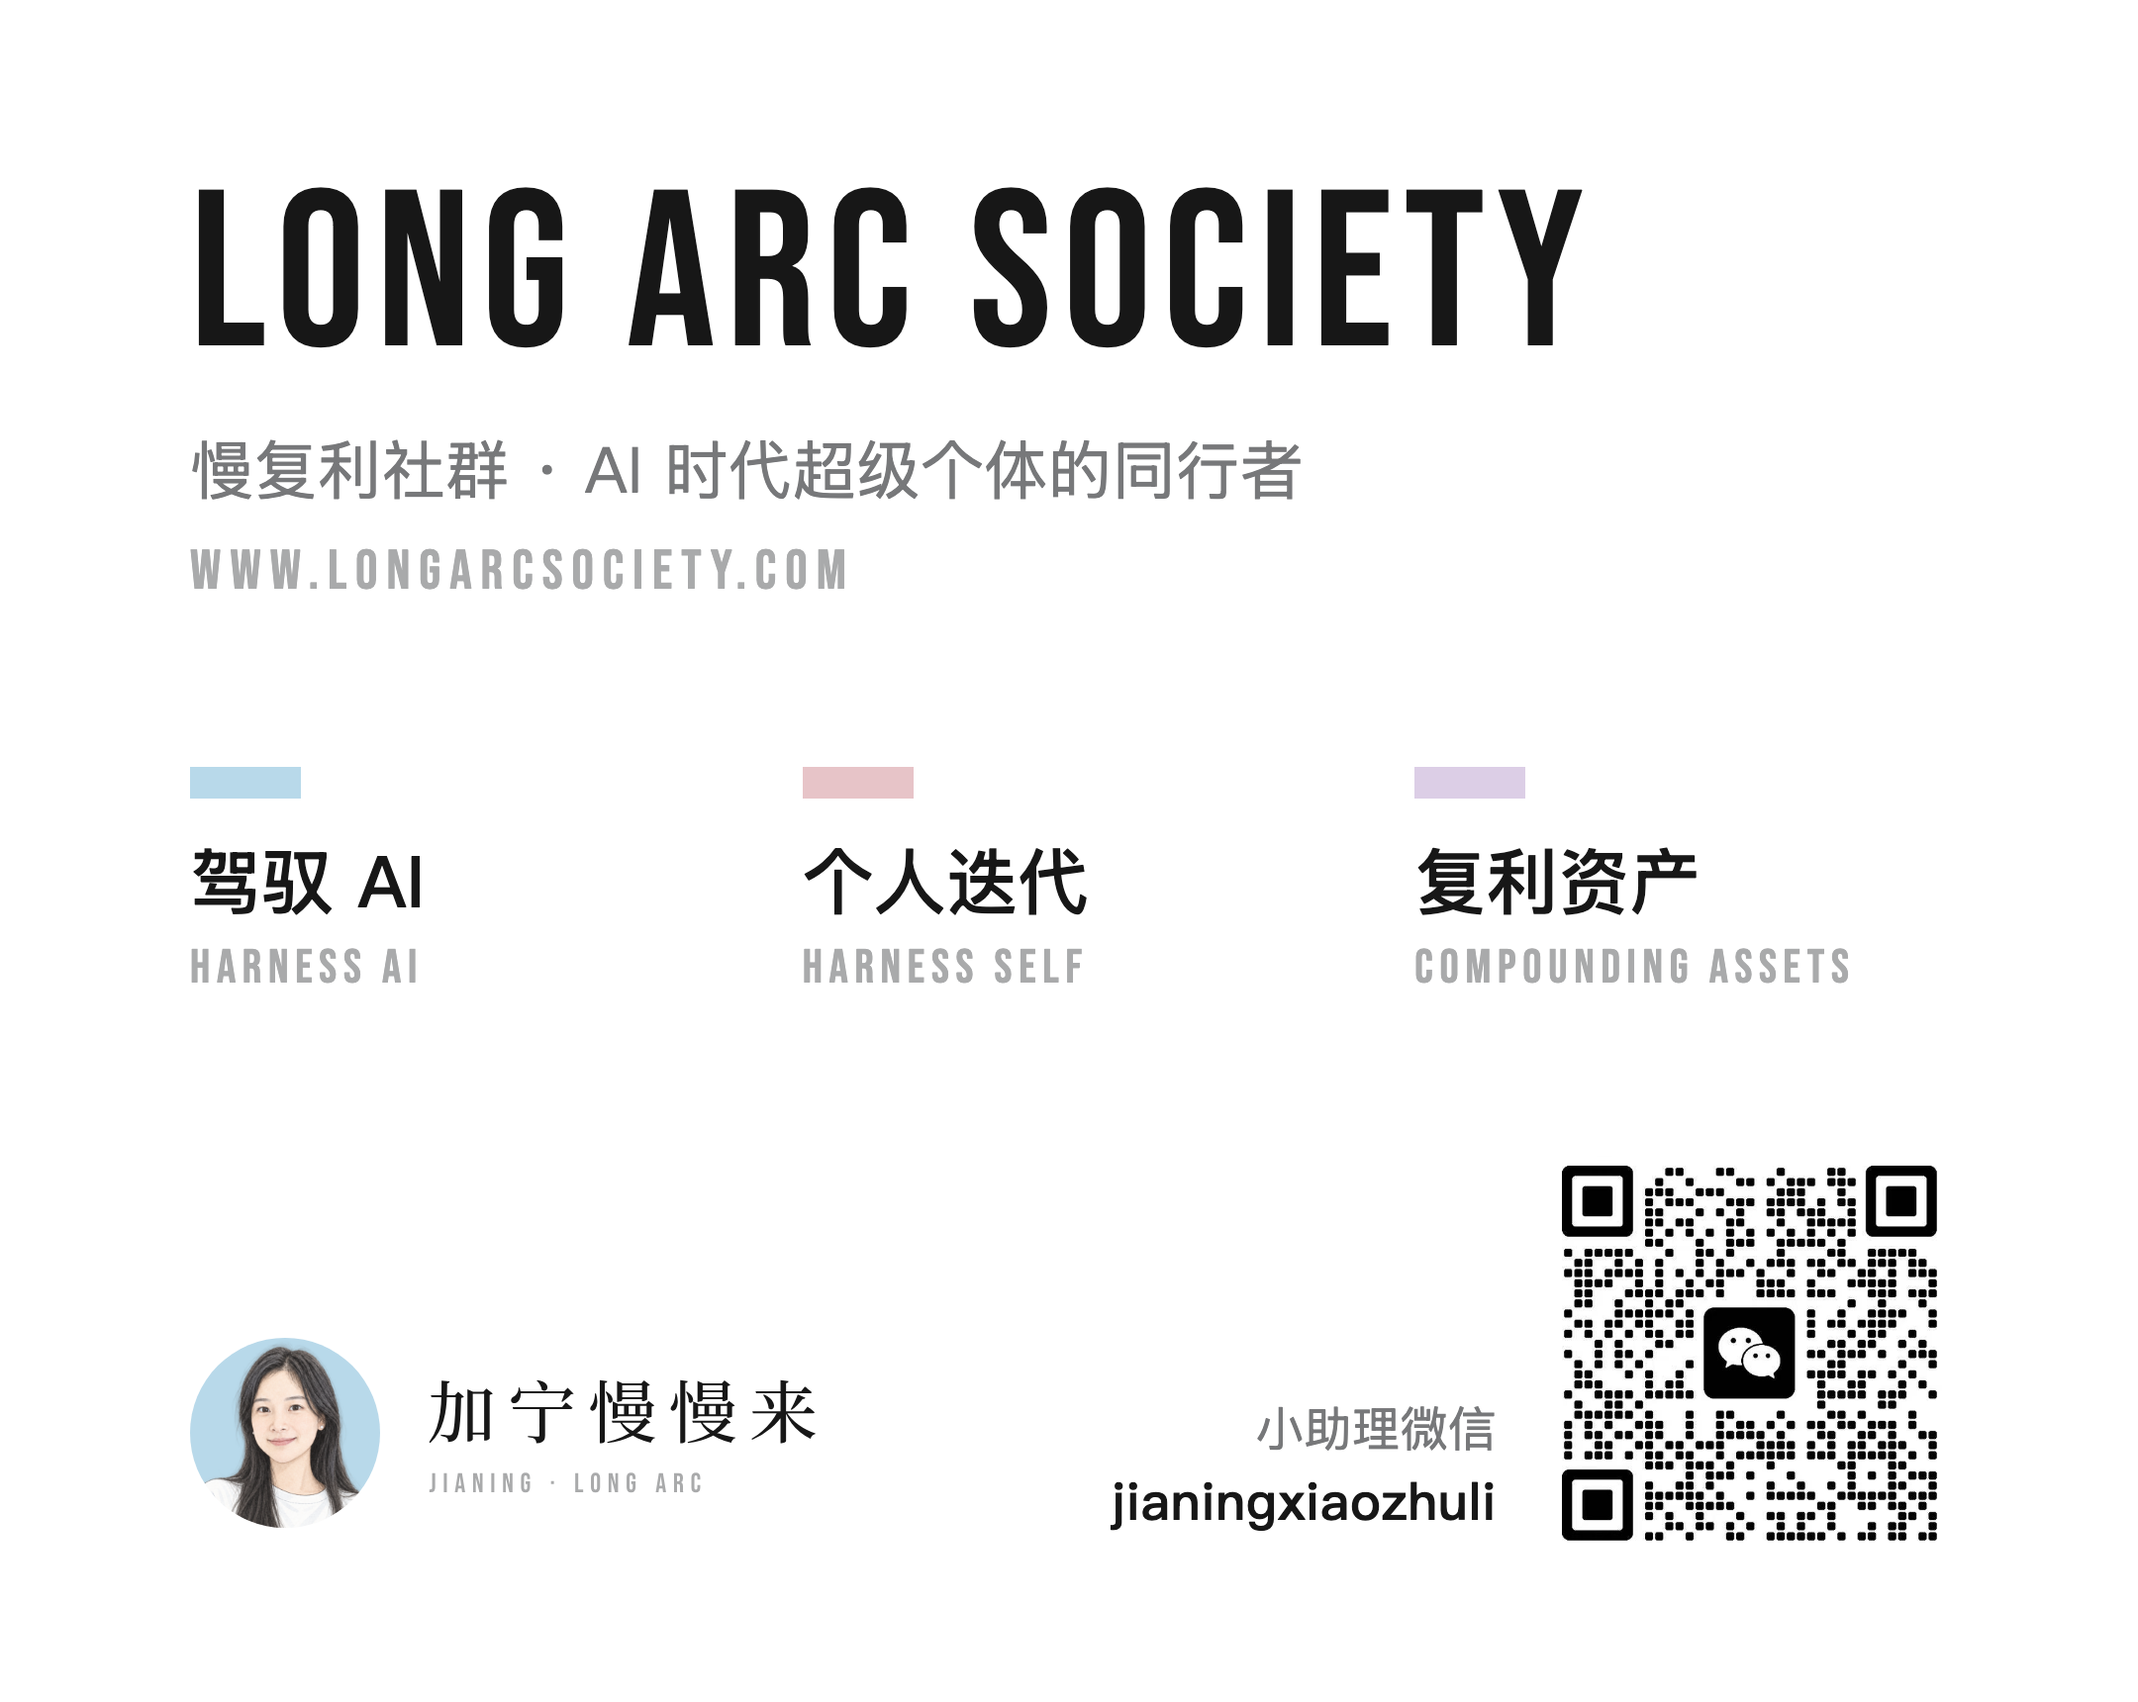
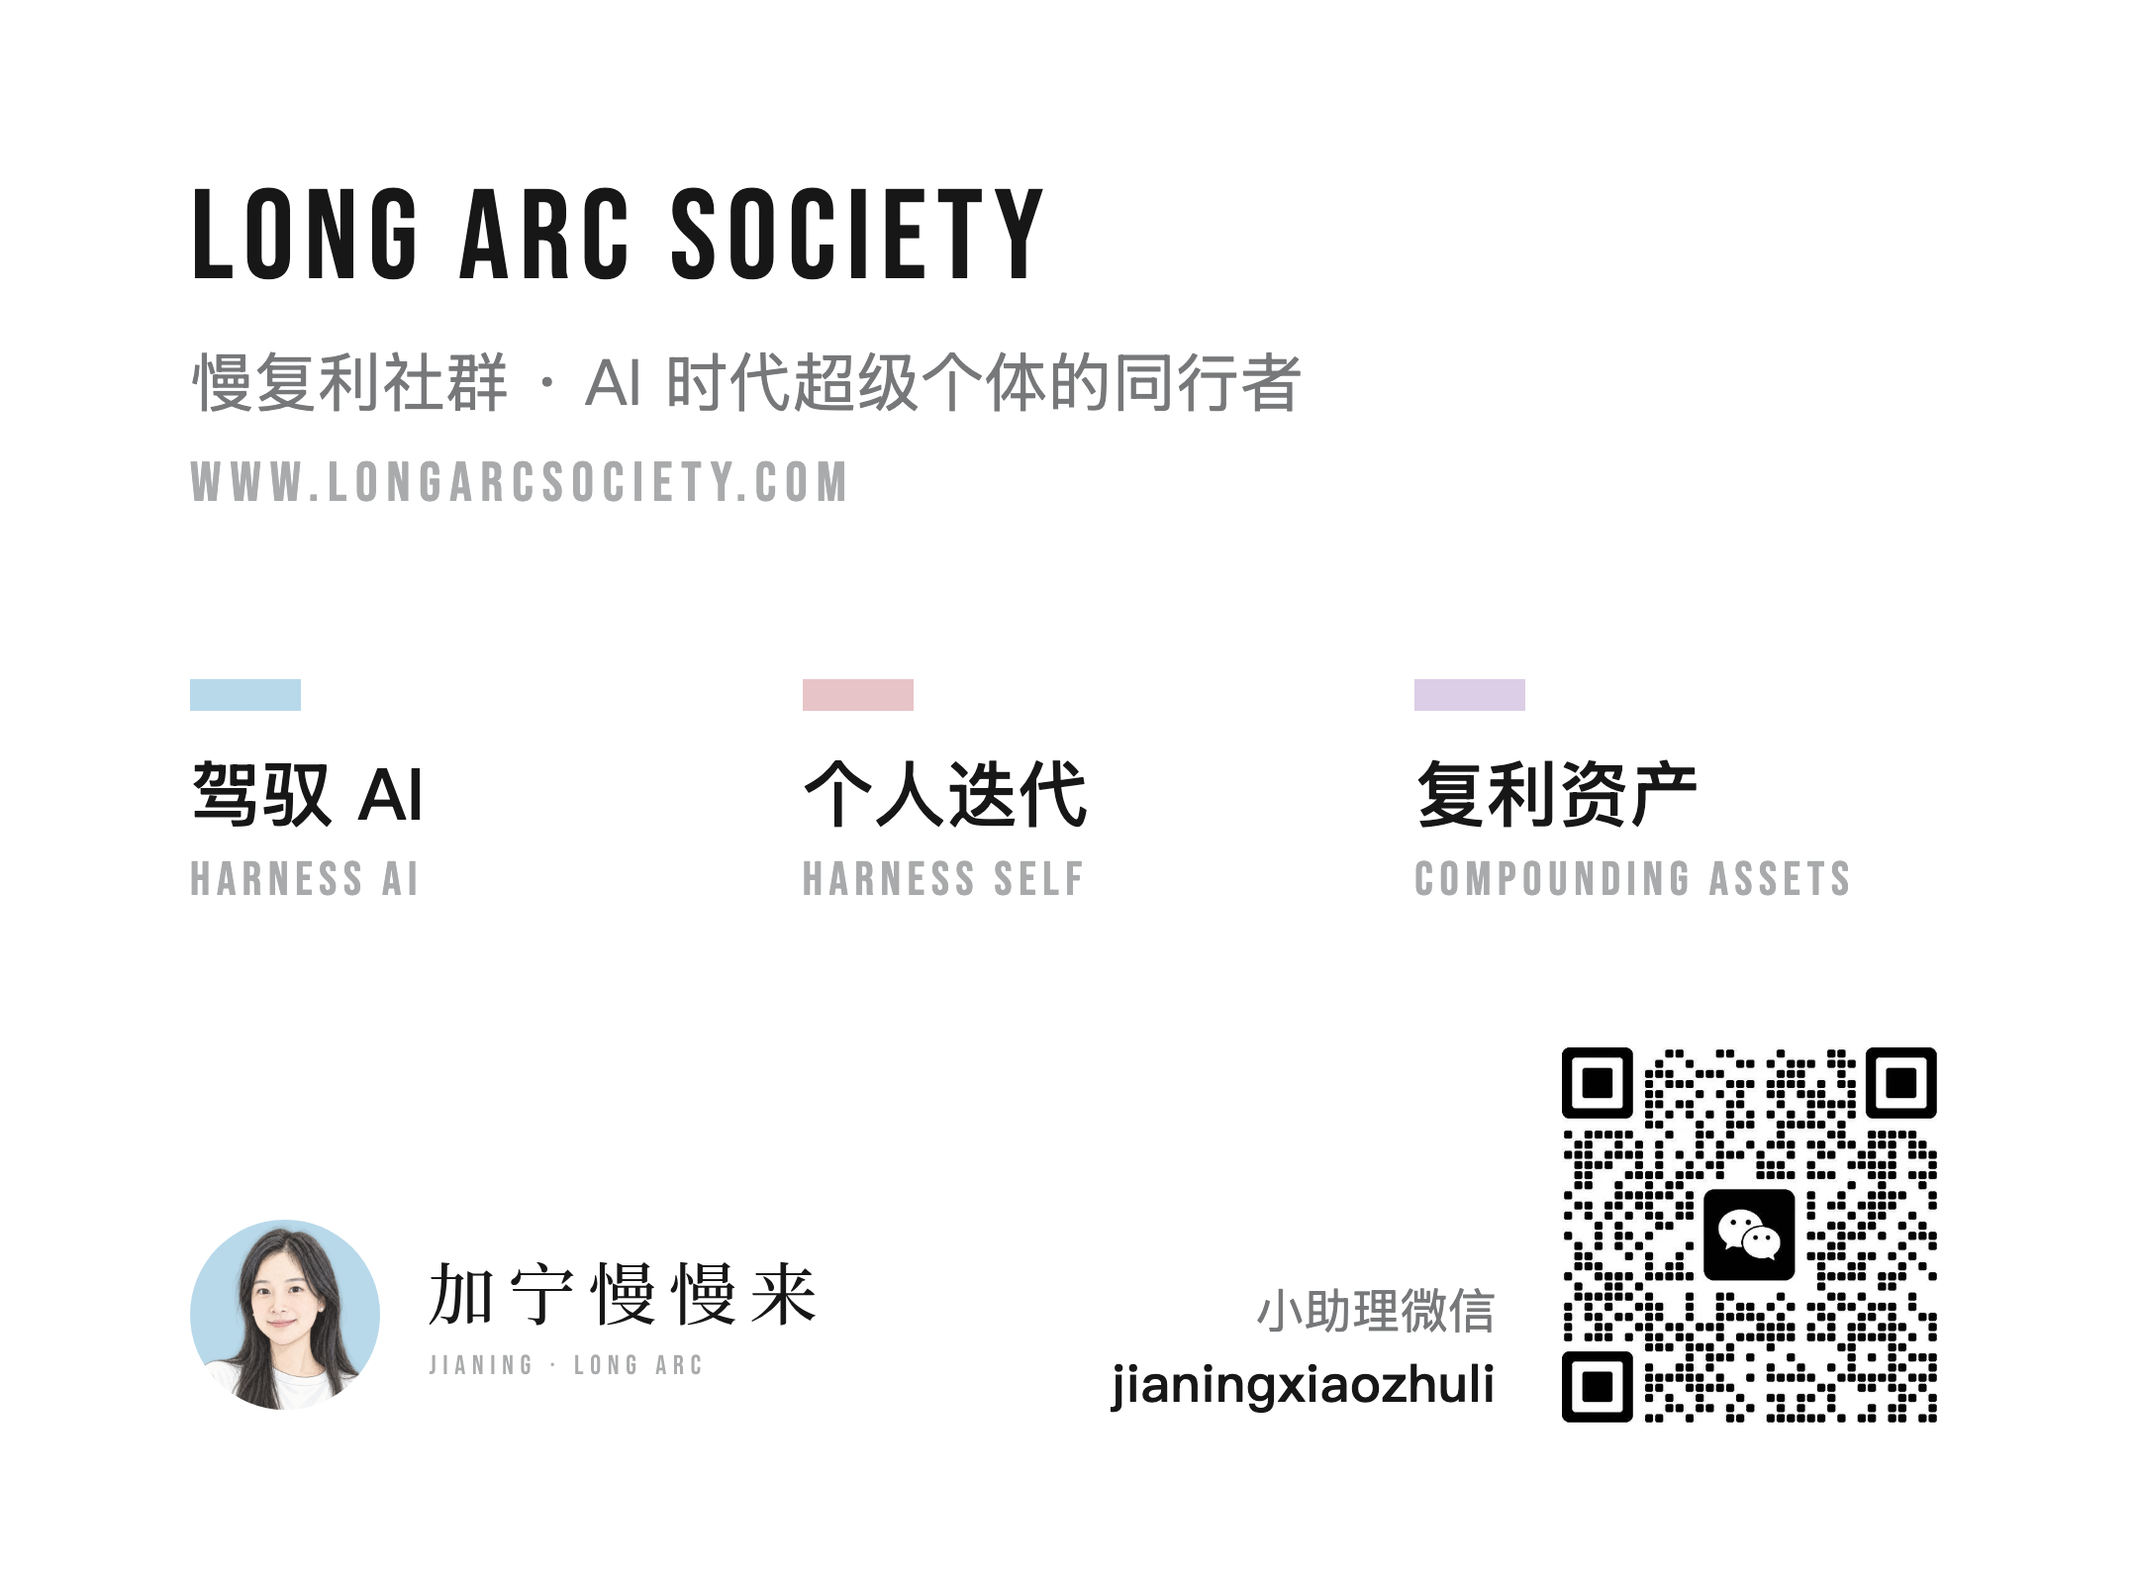
wechat-formatter: smaller heading on footer card

diff --git a/wechat-formatter/scripts/generate_footer_card.py b/wechat-formatter/scripts/generate_footer_card.py
@@ -1,7 +1,7 @@
 #!/usr/bin/env python3
 """
 generate_footer_card.py
-输出「加宁慢慢来」公众号文末品牌卡片（2026-10-08 定稿，2160 × 1720）。
+输出「加宁慢慢来」公众号文末品牌卡片（2026-10-08 定稿，2160 × 1600）。
 
 卡片是固定的成品图 templates/footer-card.png，不再按头像、二维码现场生成。
 要改卡片，改 brand kit 里的 05-templates/wechat/footer-card.html，导出后替换这张图。
